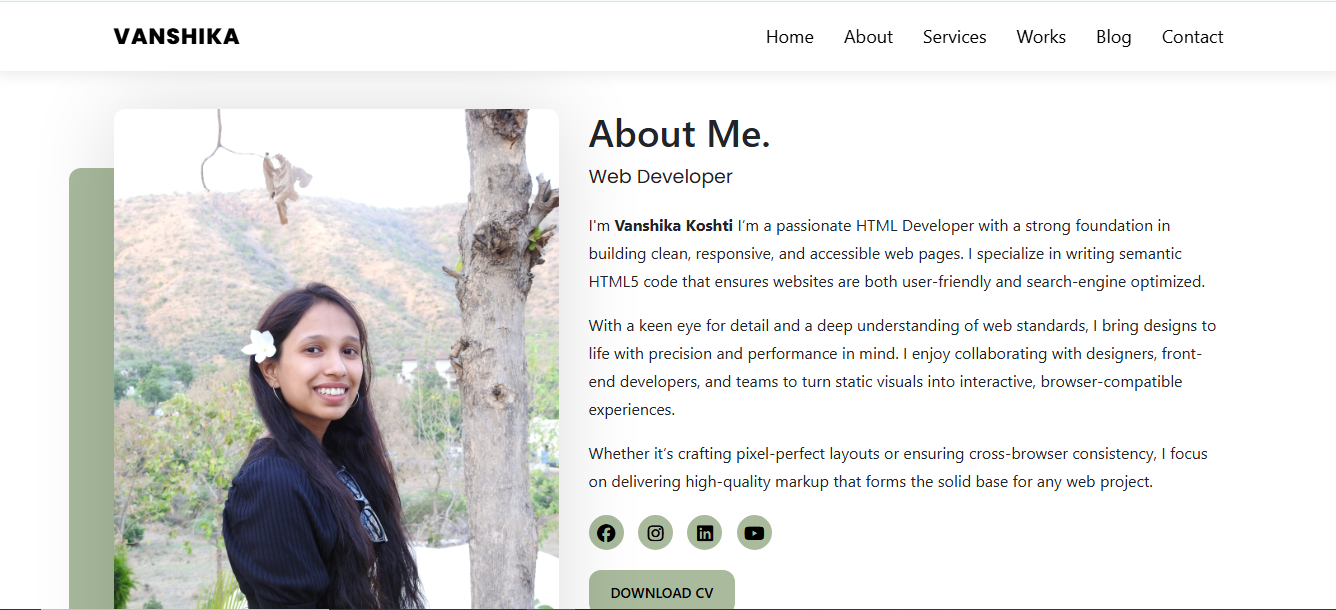
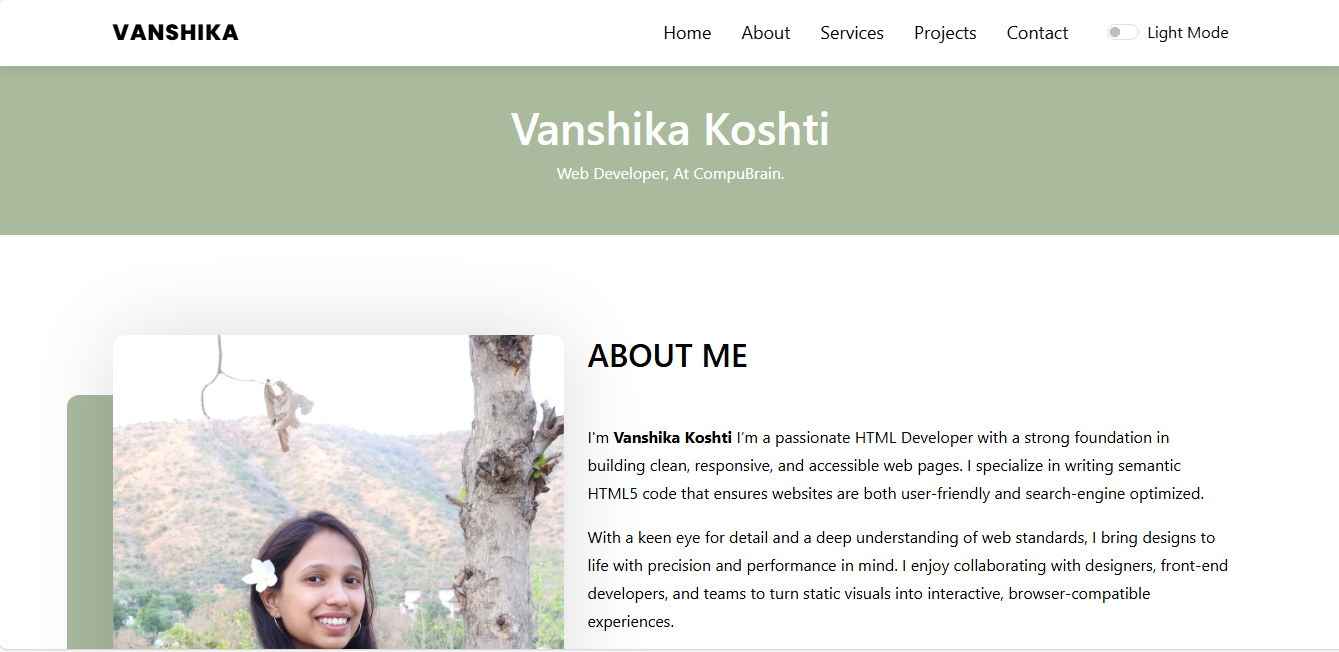
15 sep 2024

diff --git a/index.html b/index.html
@@ -1,3 +1,4 @@
+
 <!DOCTYPE html>
 <html lang="en">
     <head>
@@ -18,7 +19,7 @@
         <link rel="stylesheet" href="https://cdnjs.cloudflare.com/ajax/libs/font-awesome/7.0.0/css/all.min.css"  crossorigin="anonymous" referrerpolicy="no-referrer" />
         <!--Bootstrap css-->
         <link rel="stylesheet" href="assets/css/bootstrap.css">
-<link href="https://cdn.jsdelivr.net/npm/bootstrap@5.3.3/dist/css/bootstrap.min.css" rel="stylesheet">
+        <link href="https://cdn.jsdelivr.net/npm/bootstrap@5.3.3/dist/css/bootstrap.min.css" rel="stylesheet">
 
         <!--Owl Carousel css-->
         <link rel="stylesheet" href="assets/css/owl.carousel.min.css">
@@ -28,16 +29,16 @@
         <link rel="stylesheet" href="assets/css/magnific-popup.css">
 
         <!-- Google Fonts -->
-<link rel="preconnect" href="https://fonts.googleapis.com">
-<link rel="preconnect" href="https://fonts.gstatic.com" crossorigin>
-<link href="https://fonts.googleapis.com/css2?family=Poppins:ital,wght@0,100;0,200;0,300;0,400;0,500;0,600;0,700;0,800;0,900;1,100;1,200;1,300;1,400;1,500;1,600;1,700;1,800;1,900&display=swap" rel="stylesheet">
+        <link rel="preconnect" href="https://fonts.googleapis.com">
+        <link rel="preconnect" href="https://fonts.gstatic.com" crossorigin>
+        <link href="https://fonts.googleapis.com/css2?family=Poppins:ital,wght@0,100;0,200;0,300;0,400;0,500;0,600;0,700;0,800;0,900;1,100;1,200;1,300;1,400;1,500;1,600;1,700;1,800;1,900&display=swap" rel="stylesheet">
         <!--Site Main Style css-->
         <link rel="stylesheet" href="assets/css/style.css">
 
        
     </head>
 
-    <body>
+    <body class="">
 
         <!--Preloader-->
         <div class="preloader">
@@ -46,7 +47,7 @@
         <!--Preloader-->
 
         <!--Navbar Start-->
-        <nav class="navbar  fixed-top navbar-expand-lg navbar-dark">
+        <nav class="navbar  fixed-top navbar-expand-lg ">
             <div class="container">
                 <!-- LOGO -->
                 <a class='navbar-brand logo' href='/'>
@@ -79,10 +80,10 @@
                          <li></li>
                     </ul>
                 </div>
-                    <div class="form-check form-switch">
-      <input class="form-check-input" type="checkbox" role="switch" id="toggle-theme">
-      <label class="form-check-label" for="toggle-theme" id="theme-label">Light Mode</label>
-    </div>
+                <div class="form-check form-switch ml-4">
+                <input class="form-check-input" type="checkbox" role="switch" id="toggle-theme">
+                <label class="form-check-label" for="toggle-theme" id="theme-label">Light Mode</label>
+                </div>
 
             </div>
         </nav>
@@ -230,7 +231,7 @@
                         <!--Blogs Item-->
                         <div class="blog-item">
                             <div class="blog-img">
-                                <a href='javascript:void(0);'>
+                                <a href='https://vanshikakoshti.github.io/portfolio/' target="_blank">
                                     <img src="assets/img/blog/portfolio.png" alt="">
                                 </a>
                             </div>
@@ -238,13 +239,28 @@
                                 <h3>Portfolio Website</h3>
                                 <p>My personal portfolio showcasing my work.</p>
                                 <div class="blog-meta">
-                                    <span class="more">
-                                        <a class="main-btn" href='javascript:void(0);'>View Project</a>
-                                    </span>
+                                        <a class="main-btn" href='https://vanshikakoshti.github.io/portfolio/' target="_blank">View Project</a>
                                     
                                 </div>
                             </div>
                         </div>
+                         <!--Blogs Item-->
+                        <div class="blog-item">
+                            <div class="blog-img">
+                                <a href='https://vanshikakoshti.github.io/digital-marketing/' target="_blank">
+                                    <img src="assets/img/blog/digital-marketing.png" alt="">
+                                </a>
+                            </div>
+                            <div class="blog-content">
+                                <h3>Digital Marketing</h3>
+                                <p>My personal portfolio showcasing my work.</p>
+                                <div class="blog-meta">
+                                        <a class="main-btn" href='https://vanshikakoshti.github.io/digital-marketing/;' target="_blank">View Project</a>
+                                   
+                                </div>
+                            </div>
+                        </div>
+                        
                         <!--Blogs Item-->
                         <div class="blog-item">
                             <div class="blog-img">
@@ -255,10 +271,8 @@
                             <div class="blog-content">
                                 <h3>To-Do App</h3>
                                 <p>A simple to-do app with React....</p>
-                                <div class="blog-meta">
-                                    <span class="more">
+                                <div class="blog-meta"> 
                                         <a class="main-btn" href='https://vanshikakoshti.github.io/todo-list/' target="_blank">View Project</a>
-                                    </span>
                                     
                                 </div>
                             </div>
@@ -274,10 +288,7 @@
                                 <h3>TextUtils</h3>
                                 <p>TextUtils is utility which can be used to manipulate your text in the way you want....</p>
                                 <div class="blog-meta">
-                                    <span class="more">
                                         <a class="main-btn" href='https://vanshikakoshti.github.io/textutils/' target="_blank">View Project</a>
-                                    </span>
-                                    
                                 </div>
                             </div>
                         </div>

diff --git a/assets/css/style.css b/assets/css/style.css
@@ -1,4 +1,42 @@
-
+    body {
+      background-color: #ffffff;
+      color: #000000;
+      transition: 0.3s, color 0.3s;
+    }
+    body.light-mode {
+      background-color: #ffffff;
+      color: #000000;
+      transition: 0.3s, color 0.3s;
+    }
+    body.dark-mode {
+      background-color: #121212;
+      color: #ffffff;
+    }
+    
+    body.dark-mode nav.fixed-top {
+        background-color:  #222;
+        color: #ffffff;
+    }
+    body.dark-mode  nav.fixed-top .logo.logo {
+        filter: brightness(0) invert(1);
+        }
+    body.dark-mode nav.fixed-top .nav-item .nav-link{
+        color: #fff ;
+    }
+    
+    body.dark-mode .bg-gray{
+        background: #222;
+    }
+    body.dark-mode .main-btn:hover {
+    color: #000;
+    background-color: #fff;
+    }
+    body.dark-mode .contact-container{
+        background: #161515
+    }
+    body.dark-mode .blogs .blog-item .blog-content{
+        background: #161515
+    }
 /*===========Helpers Css============*/
 
 .heading {
@@ -32,7 +70,7 @@
     padding: 10px 20px;
     border: 2px solid #A9BA9D;
     color: #000;
-    text-transform: uppercase;
+    text-decoration: none;
     -webkit-transition: .2s background-color ease;
     -o-transition: .2s background-color ease;
     transition: .2s background-color ease;
@@ -45,6 +83,7 @@
 .main-btn:hover {
     color: #222;
     background-color: transparent;
+    text-decoration: none;
 }
 
 .bread-crumb a {
@@ -283,9 +322,9 @@ nav.navbar .nav-item .nav-link.last-active:before {
 
 nav.fixed-top {
     position: fixed;
-    padding-top: 13px;
-    padding-bottom: 13px;
-    background-color: #fff;
+    padding-top: 12px;
+    padding-bottom: 12px;
+   background: #fff;
     -webkit-box-shadow: 0px 0px 18px 1px rgba(0, 0, 0, 0.1);
     box-shadow: 0px 0px 18px 1px rgba(0, 0, 0, 0.1);
 }
@@ -308,7 +347,7 @@ nav.fixed-top .nav-item {
 }
 
 nav.fixed-top .nav-item .nav-link {
-    color: #000 !important;
+    color: #000 ;
 }
 
 nav.fixed-top .nav-item .nav-link:before {
@@ -318,6 +357,7 @@ nav.fixed-top .nav-item .nav-link:before {
 .navbar-dark .navbar-nav .nav-link:focus, .navbar-dark .navbar-nav .nav-link:hover{
     font-weight: 600;
 }
+
 
 /*============ 4. Banner Section============*/
 .hero {
@@ -637,6 +677,8 @@ section.services .service-item .icon {
 }
 
 .blogs .blog-item .blog-img img {
+    object-fit: cover;
+    height: 200px;
     display: block;
     width: 100%;
     -webkit-transition: all .5s;
@@ -660,8 +702,7 @@ section.services .service-item .icon {
 .blogs .blog-item .blog-content h3 {
     font-size: 20px;
     font-weight: 600;
-    color: #222;
-    margin-bottom: 15px;
+     margin-bottom: 15px;
 }
 
 .blogs .blog-item .blog-content p {
@@ -801,11 +842,11 @@ section.services .service-item .icon {
     font-family: "Poppins", sans-serif;
     -webkit-box-shadow: none;
     box-shadow: none;
-    -webkit-border-radius: 0;
-    border-radius: 0;
+    border-radius: 12px;
     color: #222;
+    border-radius: 8px;
     border: 0;
-    border-bottom: 2px solid #222;
+    background-color: #d3d3d3;
     height: 3em;
     -webkit-transition: all .4s ease;
     -o-transition: all .4s ease;
@@ -850,6 +891,7 @@ footer .contact-info h5 {
 footer .contact-info p,footer .contact-info p  a {
     color: #fff;
     font-size: 16px;
+    text-decoration: none;
 }
 
 footer hr {
@@ -1007,6 +1049,10 @@ section.banner-blog .banner-caption h1 {
     padding: 20px 0 0 10px;
     margin-bottom: 15px;
     height: 150px;
+}
+.form-check-input:checked{
+    background-color: #A9BA9D;
+    border-color: #A9BA9D;
 }
 .section-padding{
     padding-top: 100px;

diff --git a/assets/js/script.js b/assets/js/script.js
@@ -1,3 +1,4 @@
+/*============ owl caraousel============*/
 var owl = $('.owl-project');
             owl.owlCarousel({
                 items:3, 
@@ -50,3 +51,36 @@ document.getElementById('contact-form').addEventListener('submit', function(e) {
   alert("Thank you for your message! I'll get back to you soon.");
   this.reset();
 });
+
+/*============ contact button============*/
+
+
+    // Toggle when user changes switch
+/*============ contact button============*/
+
+
+    // Toggle when user changes switch
+    const toggle = document.getElementById("toggle-theme");
+    const body = document.body;
+    const themeLabel = document.getElementById("theme-label");
+
+    // Load saved theme
+    if (localStorage.getItem("theme") === "light") {
+      body.classList.add("light-mode");
+      toggle.checked = true;
+      themeLabel.textContent = "Light Mode";
+    }
+
+    toggle.addEventListener("change", () => {
+      if (toggle.checked) {
+        body.classList.add("dark-mode");
+        localStorage.setItem("theme", "dark");
+        themeLabel.textContent = "Dark Mode";
+      } else {
+        body.classList.remove("dark-mode");
+        localStorage.setItem("theme", "light");
+        themeLabel.textContent = "Light Mode";
+      }
+    });
+
+ 
